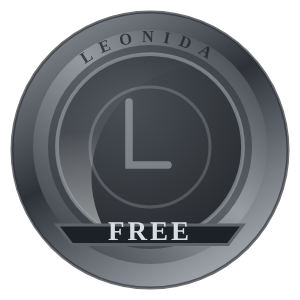
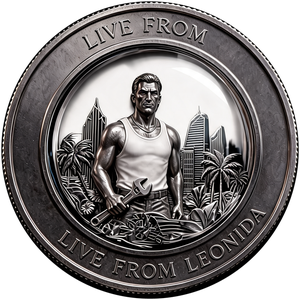
Free coin: cropped steel coin replaces the drawn Free medal everywhere
Claude-Session: https://claude.ai/code/session_01Vt2BPo7xQhK26x7YpAfdKt

diff --git a/src/components/TierMedal.tsx b/src/components/TierMedal.tsx
@@ -1,258 +1,11 @@
-import { useId } from "react";
 import type { TierId } from "@/lib/tiers";
 
-/** Tier medallions.
- *
- *  Struck rather than drawn: a metal ring with a conic sheen, a glass field
- *  with a real highlight arc, a Leonida skyline engraved behind a palm, and a
- *  banner. Free is unplated steel, Street is silver over ice, Hustler is rose
- *  gold over magenta, Kingpin is gold with laurel and a crown.
- *
- *  No faces and no borrowed wordmarks — the state's own name and its own
- *  skyline, so the thing belongs to this site and nobody else's. */
-
-type Spec = {
-  ring: [string, string, string];   // metal: highlight, body, shadow
-  field: [string, string];          // glass: top, bottom
-  ink: string; banner: string; bannerInk: string;
-  stars: number; laurel?: boolean; crown?: boolean;
-  rim: "plain" | "beaded" | "rope" | "reeded";
-  scene: "mark" | "skyline" | "sunset" | "empire";
-};
-
-const SPEC: Record<TierId, Spec> = {
-  free: {
-    ring: ["#9aa0a6", "#5e636a", "#2e3237"], field: ["#4a4f55", "#23262a"],
-    ink: "#cfd4da", banner: "#1d2024", bannerInk: "#d8dde3", stars: 0,
-    rim: "plain", scene: "mark",
-  },
-  street: {
-    ring: ["#ffffff", "#c6ced6", "#6e7881"], field: ["#4fc3e8", "#13506e"],
-    ink: "#eaf7ff", banner: "#0e2d3f", bannerInk: "#eaf7ff", stars: 1,
-    rim: "beaded", scene: "skyline",
-  },
-  hustler: {
-    ring: ["#ffe7b0", "#e0a93a", "#7a4f12"], field: ["#ff3b5f", "#8a0c24"],
-    ink: "#ffe9ea", banner: "#4a0a16", bannerInk: "#ffe2b8", stars: 2,
-    rim: "rope", scene: "sunset",
-  },
-  kingpin: {
-    ring: ["#fff3c4", "#e3b84e", "#8a6413"], field: ["#a970e0", "#39175e"],
-    ink: "#fdeec4", banner: "#2a1140", bannerInk: "#ffe9a8", stars: 3, laurel: true, crown: true,
-    rim: "reeded", scene: "empire",
-  },
-};
-
-function Star({ x, y, r, fill }: { x: number; y: number; r: number; fill: string }) {
-  const pts = Array.from({ length: 10 }, (_, i) => {
-    const rad = i % 2 ? r * 0.45 : r;
-    const a = (Math.PI / 5) * i - Math.PI / 2;
-    return `${(x + Math.cos(a) * rad).toFixed(2)},${(y + Math.sin(a) * rad).toFixed(2)}`;
-  }).join(" ");
-  return <polygon points={pts} fill={fill} />;
-}
-
+/** The plan coin: steel Free, bronze Street, silver Hustler, gold Kingpin.
+ *  One piece of struck artwork per plan, cropped round with a transparent edge. */
 export function TierMedal({ tier, className }: { tier: TierId; className?: string }) {
-  // Unique per instance (see note below). Called first so hook order never changes.
-  const uid = useId().replace(/:/g, "");
-  // Paid tiers use the struck coin artwork; Free keeps the plain steel medal below.
-  if (tier !== "free") {
-    return (
-      // eslint-disable-next-line @next/next/no-img-element
-      <img src={`/media/coins/${tier}.webp`} alt={`${tier.toUpperCase()} coin`} className={className} style={{ objectFit: "contain", aspectRatio: "1" }} loading="lazy" decoding="async" />
-    );
-  }
-  const s = SPEC[tier];
-  // Unique per instance. The same medal can be on screen three times — top
-  // bar, open menu, pricing card — and SVG ids are document-global, so shared
-  // ids resolve to whichever came first, including one in a closed menu,
-  // where Chrome won't paint a gradient at all.
-  const u = `m-${tier}-${uid}`;
-  const label = "FREE";
-
   return (
-    <svg viewBox="0 0 200 200" className={className} role="img" aria-label={`${label} tier medal`}>
-      <defs>
-        {/* Metal: a conic sweep is what makes a ring look turned rather than painted. */}
-        <linearGradient id={`${u}-ring`} x1="0" y1="0" x2="0.6" y2="1">
-          <stop offset="0%" stopColor={s.ring[0]} />
-          <stop offset="28%" stopColor={s.ring[1]} />
-          <stop offset="52%" stopColor={s.ring[2]} />
-          <stop offset="74%" stopColor={s.ring[1]} />
-          <stop offset="100%" stopColor={s.ring[0]} />
-        </linearGradient>
-        <linearGradient id={`${u}-ring2`} x1="1" y1="0" x2="0" y2="1">
-          <stop offset="0%" stopColor={s.ring[2]} />
-          <stop offset="45%" stopColor={s.ring[0]} stopOpacity="0.9" />
-          <stop offset="100%" stopColor={s.ring[2]} />
-        </linearGradient>
-        <radialGradient id={`${u}-field`} cx="38%" cy="26%" r="92%">
-          <stop offset="0%" stopColor={s.field[0]} />
-          <stop offset="100%" stopColor={s.field[1]} />
-        </radialGradient>
-        <linearGradient id={`${u}-glass`} x1="0" y1="0" x2="0.3" y2="1">
-          <stop offset="0%" stopColor="#fff" stopOpacity="0.5" />
-          <stop offset="55%" stopColor="#fff" stopOpacity="0.07" />
-          <stop offset="100%" stopColor="#fff" stopOpacity="0" />
-        </linearGradient>
-        <clipPath id={`${u}-clip`}><circle cx="100" cy="98" r="62" /></clipPath>
-      </defs>
-
-      {/* Body and rim */}
-      <circle cx="100" cy="100" r="92" fill={`url(#${u}-ring)`} />
-      <circle cx="100" cy="100" r="92" fill="none" stroke={s.ring[2]} strokeWidth="2" opacity=".7" />
-      <Rim kind={s.rim} tone={s.ring[0]} shade={s.ring[2]} />
-      <circle cx="100" cy="98" r="78" fill={`url(#${u}-ring2)`} />
-      <circle cx="100" cy="98" r="68" fill={s.ring[2]} opacity=".55" />
-
-      {/* Glass field with the state engraved into it */}
-      <circle cx="100" cy="98" r="62" fill={`url(#${u}-field)`} />
-      <g clipPath={`url(#${u}-clip)`}><Scene kind={s.scene} ink={s.ink} /></g>
-      <path d="M100 36a62 62 0 0 1 0 124A74 74 0 0 0 100 36z" transform="rotate(-150 100 98)"
-            fill={`url(#${u}-glass)`} clipPath={`url(#${u}-clip)`} />
-      <circle cx="100" cy="98" r="62" fill="none" stroke={s.ring[0]} strokeWidth="2.5" opacity=".65" />
-
-      {/* Top legend */}
-      {/* On the ring, between the glass and the rim: centred on the coin,
-          radius between 62 and 78. */}
-      <path id={`${u}-arc`} d="M30 98a70 70 0 0 1 140 0" fill="none" />
-      {/* The crown sits where the legend would; on the top coin the crown
-          is the legend. */}
-      {!s.crown && (
-        <text fontSize="11" fontWeight="900" letterSpacing="6" fill={s.banner} opacity=".75">
-          <textPath href={`#${u}-arc`} startOffset="50%" textAnchor="middle">LEONIDA</textPath>
-        </text>
-      )}
-
-      {s.laurel && (
-        <g stroke={s.ring[0]} strokeWidth="3" fill="none" opacity=".85" strokeLinecap="round">
-          <path d="M30 118c-6-18-3-38 8-50M170 118c6-18 3-38-8-50" />
-          <path d="M33 104c-6-2-10-7-11-13M37 88c-6-2-10-7-11-13M44 73c-6-2-9-7-10-13M167 104c6-2 10-7 11-13M163 88c6-2 10-7 11-13M156 73c6-2 9-7 10-13" />
-        </g>
-      )}
-      {s.crown && (
-        <g fill={s.ring[0]} stroke={s.ring[2]} strokeWidth="1.5">
-          <path d="M80 26l7 10 13-14 13 14 7-10 3 18H77z" />
-          <rect x="76" y="45" width="48" height="6" rx="2" />
-        </g>
-      )}
-
-      {/* Banner */}
-      <path d="M38 150h124l-10 13H48z" fill={s.banner} stroke={s.ring[1]} strokeWidth="2" />
-      <text x="100" y="160" textAnchor="middle" fontSize={label.length > 7 ? 15 : 18}
-            fontWeight="900" letterSpacing="2" fill={s.bannerInk}>{label}</text>
-
-      {s.stars > 0 && (
-        <g>
-          {Array.from({ length: s.stars }, (_, i) =>
-            <Star key={i} x={100 + (i - (s.stars - 1) / 2) * 16} y={176} r={6} fill={s.ring[0]} />)}
-        </g>
-      )}
-    </svg>
-  );
-}
-
-
-/** The rim is where real medals tell you what they're worth before you read
- *  them: plain for the base issue, a beaded border, a twisted rope, and the
- *  fine reeding you only get on the heavy coin. */
-function Rim({ kind, tone, shade }: { kind: Spec["rim"]; tone: string; shade: string }) {
-  if (kind === "plain") return null;
-  const R = 85;
-  if (kind === "beaded") {
-    return (
-      <g fill={tone} opacity=".85">
-        {Array.from({ length: 40 }, (_, i) => {
-          const a = (i / 40) * Math.PI * 2;
-          return <circle key={i} cx={100 + Math.cos(a) * R} cy={100 + Math.sin(a) * R} r="2.1" />;
-        })}
-      </g>
-    );
-  }
-  if (kind === "rope") {
-    return (
-      <g stroke={tone} strokeWidth="2.6" strokeLinecap="round" opacity=".8">
-        {Array.from({ length: 48 }, (_, i) => {
-          const a = (i / 48) * Math.PI * 2, b = a + 0.09;
-          return <line key={i}
-            x1={100 + Math.cos(a) * (R - 3)} y1={100 + Math.sin(a) * (R - 3)}
-            x2={100 + Math.cos(b) * (R + 3)} y2={100 + Math.sin(b) * (R + 3)} />;
-        })}
-      </g>
-    );
-  }
-  return (
-    <g stroke={shade} strokeWidth="1.3" opacity=".6">
-      {Array.from({ length: 96 }, (_, i) => {
-        const a = (i / 96) * Math.PI * 2;
-        return <line key={i}
-          x1={100 + Math.cos(a) * (R - 4)} y1={100 + Math.sin(a) * (R - 4)}
-          x2={100 + Math.cos(a) * (R + 5)} y2={100 + Math.sin(a) * (R + 5)} />;
-      })}
-    </g>
-  );
-}
-
-/** What's struck into the glass. It escalates: a single mark, then the
- *  skyline, then sunset over the water with a boat out, then the whole city
- *  under a sunburst. */
-function Scene({ kind, ink }: { kind: Spec["scene"]; ink: string }) {
-  const palm = (x: number, y: number, k = 1) => (
-    <g transform={`translate(${x} ${y}) scale(${k})`}>
-      <path d="M-2 0c-1-16 1-26 4-34h4c-3 9-5 19-4 34z" />
-      <path d="M2 -36c-8-8-20-9-27-3 9-1 18 2 25 7zM2 -36c-2-11 4-20 13-23-6 6-9 14-8 20zM2 -36c8-8 20-8 27-1-9-3-18-1-24 4z" />
-    </g>
-  );
-
-  if (kind === "mark") {
-    return (
-      <g fill="none" stroke={ink} opacity=".45" strokeWidth="5" strokeLinecap="round">
-        <path d="M86 68v42h26" />
-        <circle cx="100" cy="98" r="40" strokeWidth="2" opacity=".5" />
-      </g>
-    );
-  }
-
-  if (kind === "skyline") {
-    return (
-      <g fill={ink} opacity=".5">
-        <path d="M36 128h10V96h8v32h7V86h11v42h9V102h10v26h8V92h11v36h9v-24h9v24h12v18H36z" opacity=".55" />
-        <path d="M30 146c10-6 20-6 30 0s20 6 30 0 20-6 30 0 20 6 30 0v22H30z" opacity=".35" />
-        {palm(72, 142)}
-      </g>
-    );
-  }
-
-  if (kind === "sunset") {
-    return (
-      <g fill={ink}>
-        <g opacity=".22" stroke={ink} strokeWidth="3">
-          {Array.from({ length: 9 }, (_, i) => {
-            const a = Math.PI + (i / 8) * Math.PI;
-            return <line key={i} x1="100" y1="122" x2={100 + Math.cos(a) * 80} y2={122 + Math.sin(a) * 80} />;
-          })}
-        </g>
-        <circle cx="100" cy="122" r="22" opacity=".55" />
-        <path d="M30 124h140v44H30z" opacity=".35" />
-        {/* a cigarette boat cutting across the bay */}
-        <path d="M108 132h34l-6 6h-30zM118 132l6-6h8l3 6z" opacity=".75" />
-        {palm(62, 146, 1.1)}
-      </g>
-    );
-  }
-
-  return (
-    <g fill={ink}>
-      <g opacity=".2" stroke={ink} strokeWidth="2.4">
-        {Array.from({ length: 24 }, (_, i) => {
-          const a = (i / 24) * Math.PI * 2;
-          return <line key={i} x1="100" y1="96" x2={100 + Math.cos(a) * 70} y2={96 + Math.sin(a) * 70} />;
-        })}
-      </g>
-      <path d="M40 132h8V100h7v32h6V78h10v54h7V92h9v40h6V70h12v62h7V96h8v36h7v-22h8v22h9v36H40z" opacity=".55" />
-      <path d="M30 146c10-6 20-6 30 0s20 6 30 0 20-6 30 0 20 6 30 0v22H30z" opacity=".35" />
-      {palm(56, 146)}
-      {palm(146, 146, 0.85)}
-    </g>
+    // eslint-disable-next-line @next/next/no-img-element
+    <img src={`/media/coins/${tier}.webp`} alt={`${tier.toUpperCase()} coin`} className={className}
+      style={{ objectFit: "contain", aspectRatio: "1" }} loading="lazy" decoding="async" />
   );
 }
